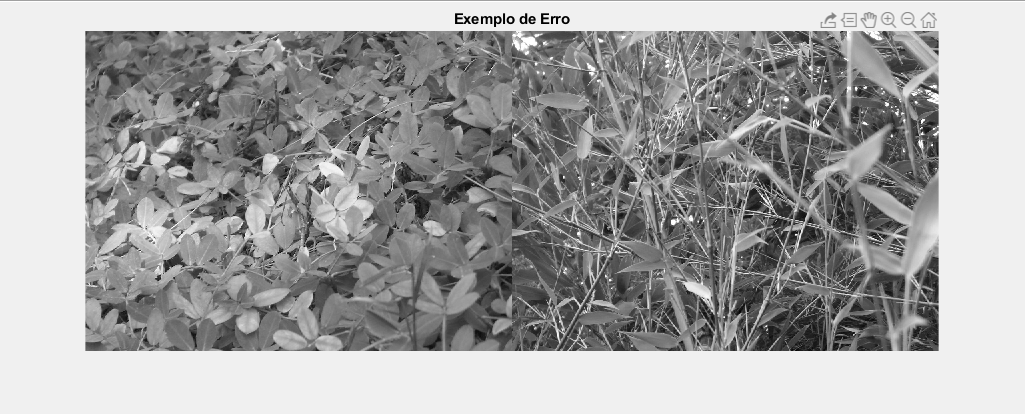
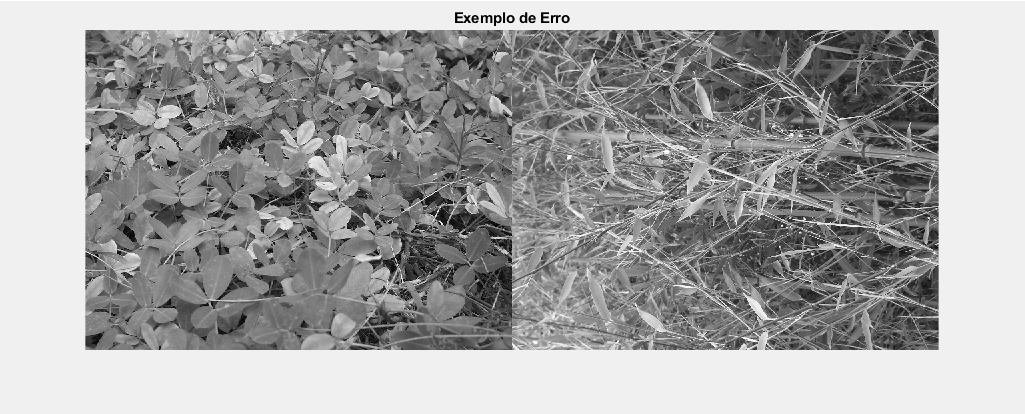
melhoria wavelet

diff --git a/V4 (PCA + WAVELET)/lerImgs.m b/V4 (PCA + WAVELET)/lerImgs.m
@@ -1,17 +1,12 @@
 function z = lerImgs(trainCell, n_train)
     %z(256*256*3, n_train) = 0;
     z = [];
-    sn = waveletScattering2 ('ImageSize' , [320 240], 'InvarianceScale' , 150);
+    sn = waveletScattering2 ('ImageSize' , [960 1280]);
     for i = 1:n_train
         img_train = readimage(trainCell, i);
-        img_train = imresize(img_train, [320 240]);
-        Feature = featureMatrix(sn, img_train);
+%         img_train = imresize(img_train, [320 240]);
+        Feature = featureMatrix(sn, img_train,'Transform','log');
         Feature = mean(mean(Feature,2),3);
-        %img_train = reshape(img_train,[size(img_train,1)*size(img_train,2),1]);
-%       LBP = extractLBPFeatures(img_train, 'Upright' , false);
-        %features = [img_train, features];
-        %features = reshape(features, [size(features,1)*size(features,2), 1]);
-        %z(:, i) = [features];
         z(:, i) = [Feature];
     end
 end
